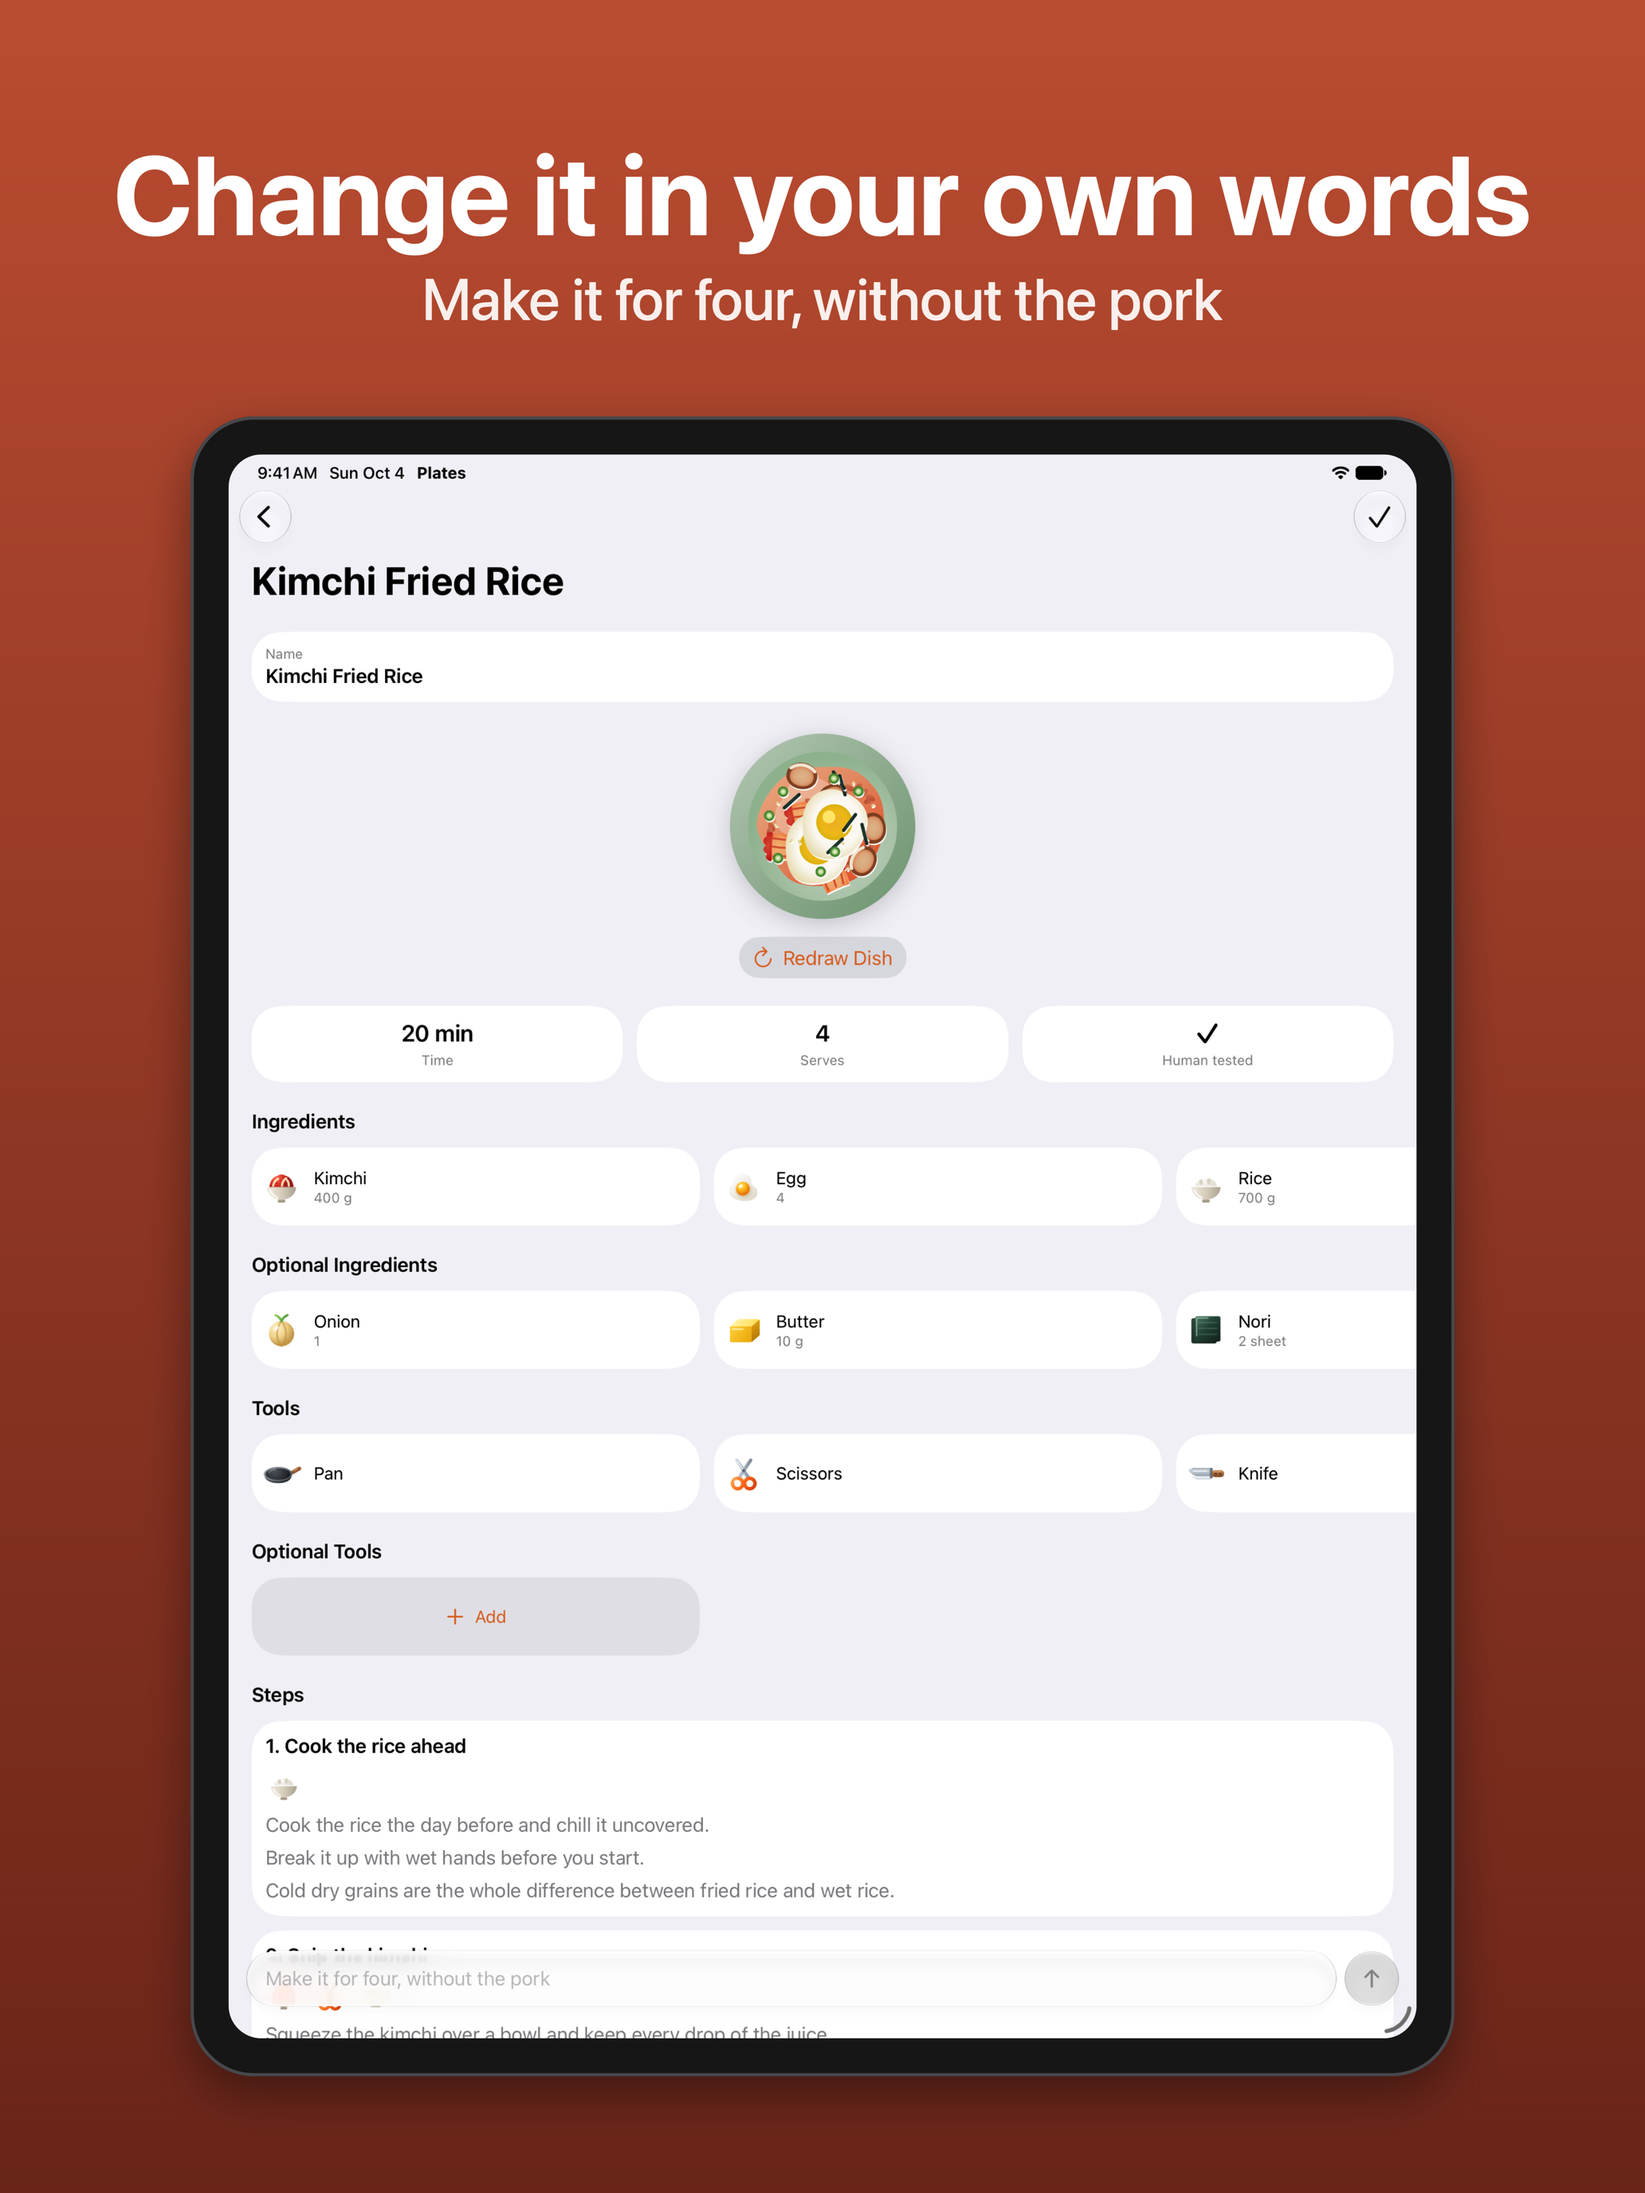
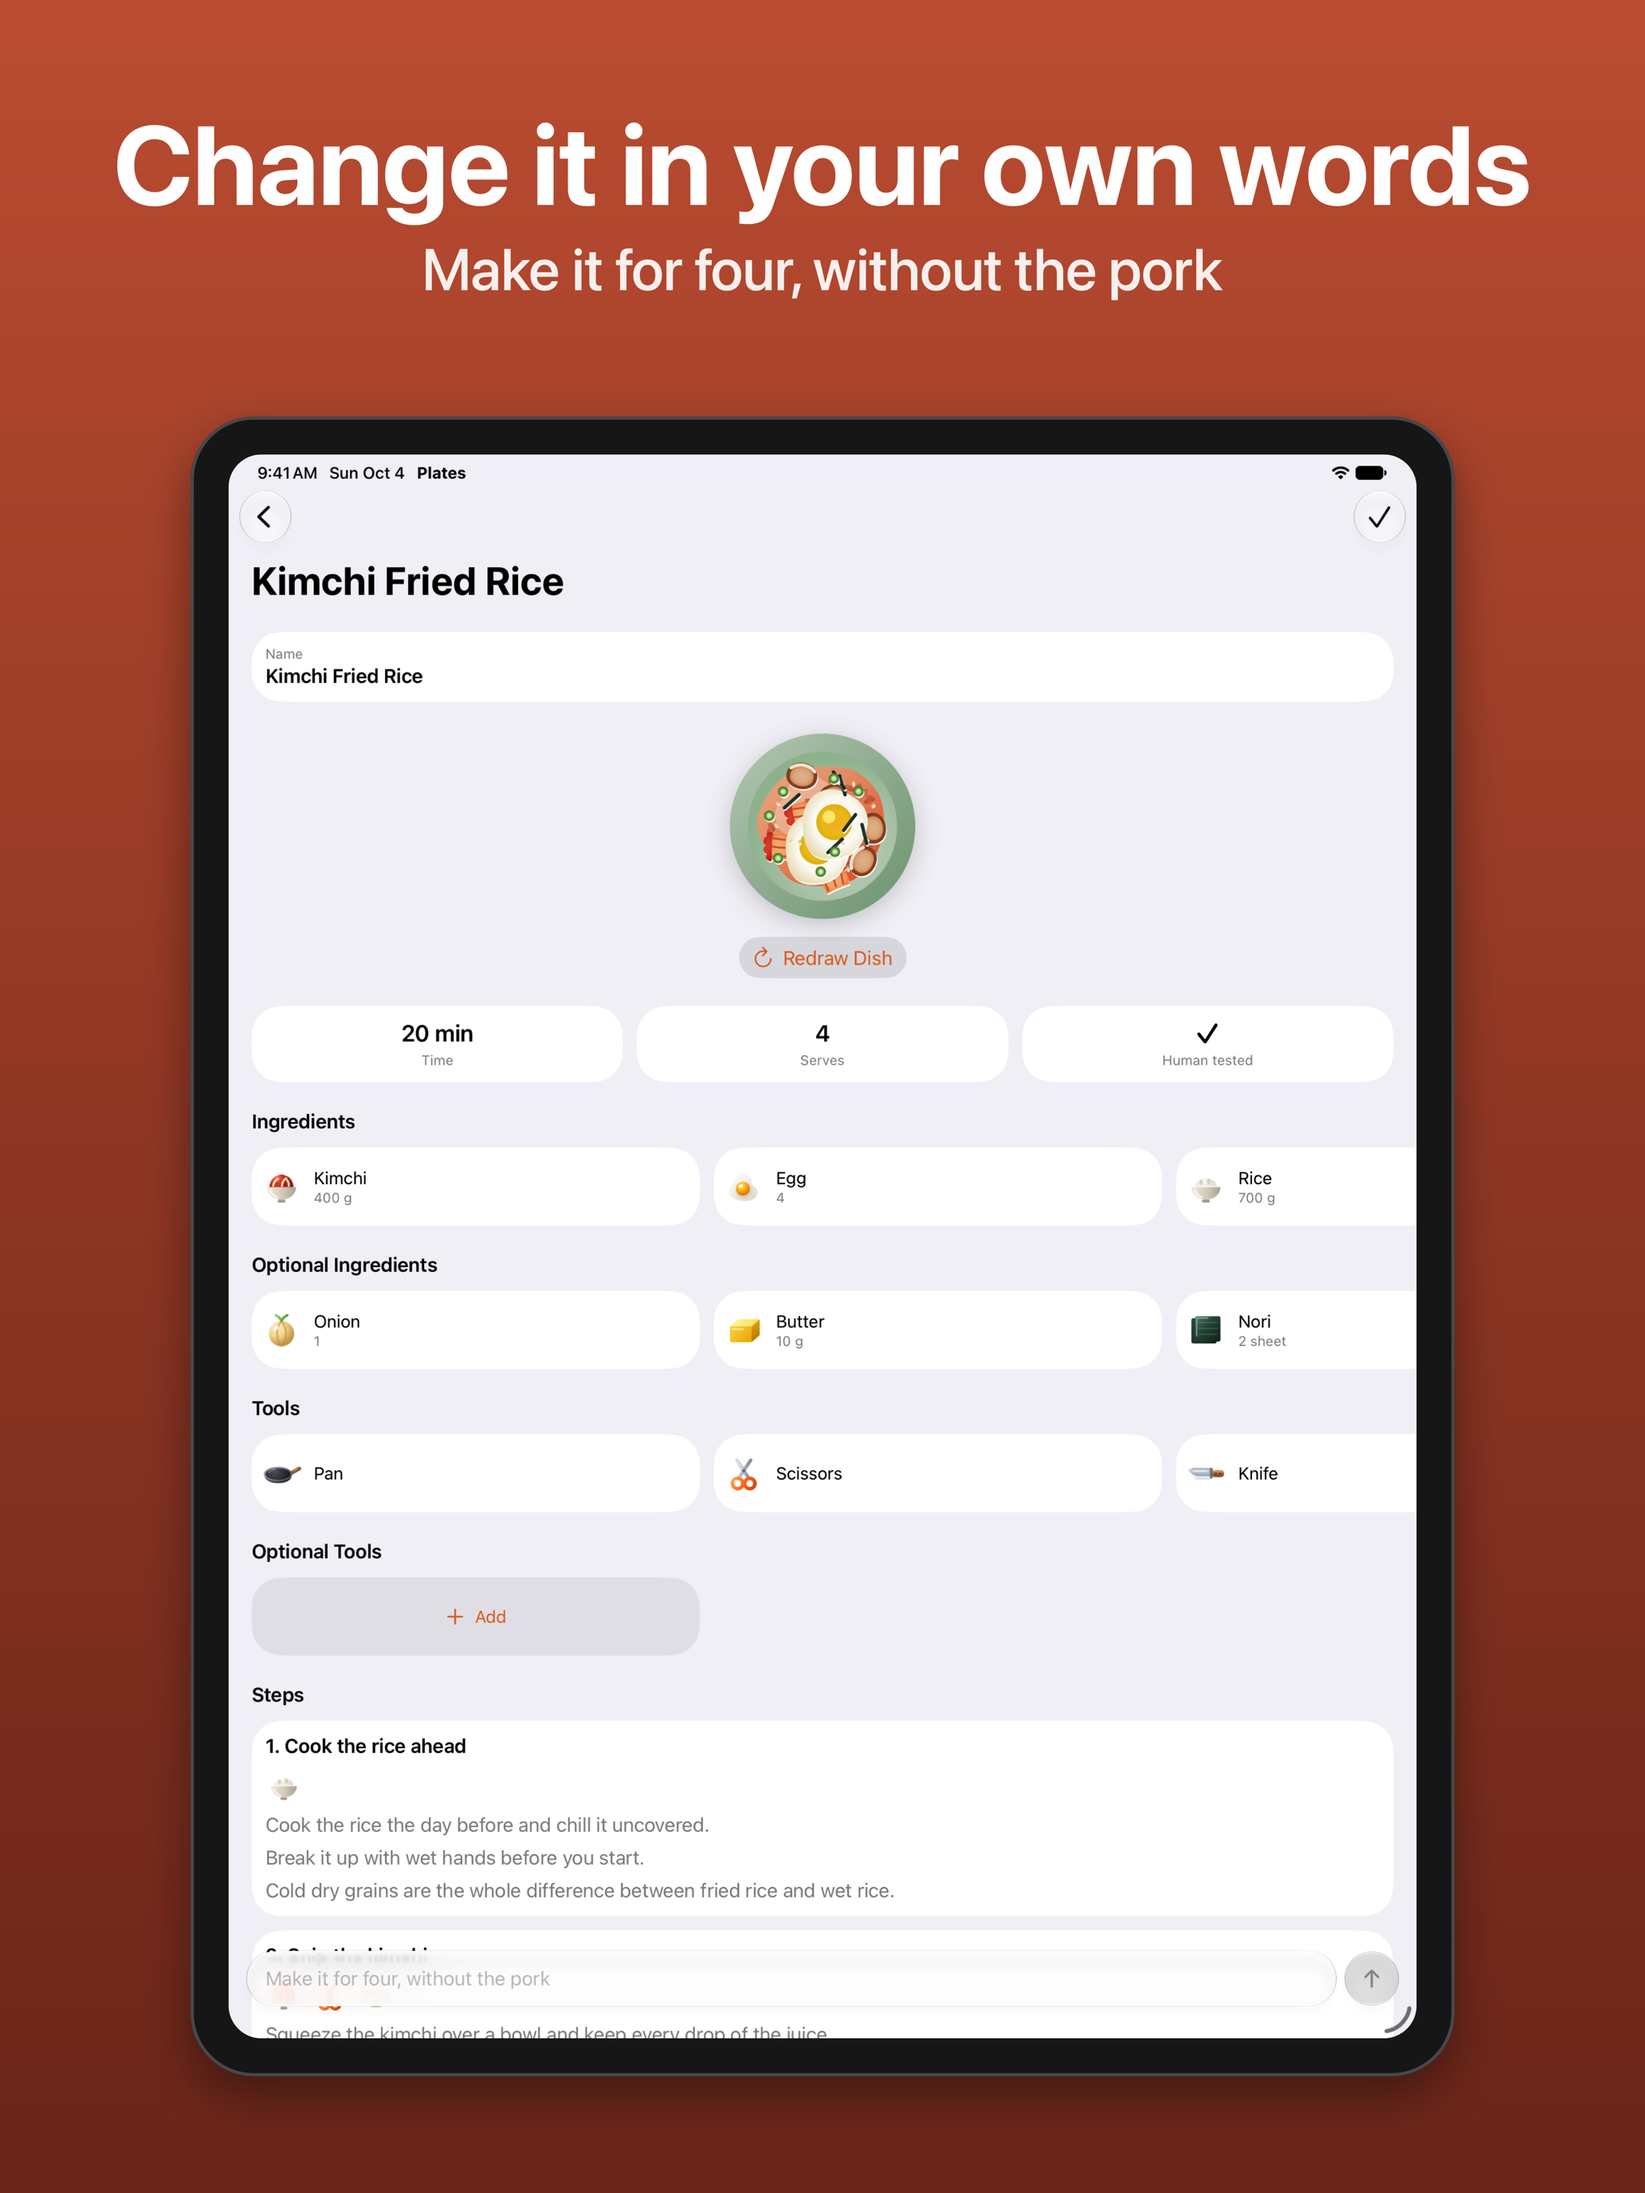
Center the iPad screenshot labels above the device

Changed region(s): [[0.062, 0.0625, 0.9302, 0.1562]]

diff --git a/Assets/App Store/compose.swift b/Assets/App Store/compose.swift
@@ -209,35 +209,38 @@ let iPadScreenshots: [Screenshot] = [
 
 // MARK: - Text
 
-/// Draws one line centered at `top`, shrinking until it fits `maxWidth`.
-/// Returns the drawn height.
-@discardableResult
-func drawLine(
-    _ text: String,
-    size: CGFloat,
-    weight: NSFont.Weight,
-    color: NSColor,
-    top: CGFloat,
-    canvasWidth: CGFloat,
-    maxWidth: CGFloat
-) -> CGFloat {
-    var fontSize = size
-    var attrs: [NSAttributedString.Key: Any] = [:]
-    var lineSize = NSSize.zero
-    while fontSize > 10 {
-        attrs = [
-            .font: NSFont.systemFont(ofSize: fontSize, weight: weight),
-            .foregroundColor: color,
-        ]
-        lineSize = (text as NSString).size(withAttributes: attrs)
-        if lineSize.width <= maxWidth { break }
-        fontSize -= 2
+/// One line of text at the largest size up to `size` that fits `maxWidth`.
+struct Line {
+    let text: String
+    let attributes: [NSAttributedString.Key: Any]
+    let font: NSFont
+    let size: NSSize
+
+    init(_ text: String, size: CGFloat, weight: NSFont.Weight, color: NSColor, maxWidth: CGFloat) {
+        var fontSize = size
+        var font = NSFont.systemFont(ofSize: fontSize, weight: weight)
+        var attributes: [NSAttributedString.Key: Any] = [:]
+        var lineSize = NSSize.zero
+        while fontSize > 10 {
+            font = NSFont.systemFont(ofSize: fontSize, weight: weight)
+            attributes = [.font: font, .foregroundColor: color]
+            lineSize = (text as NSString).size(withAttributes: attributes)
+            if lineSize.width <= maxWidth { break }
+            fontSize -= 2
+        }
+        self.text = text
+        self.attributes = attributes
+        self.font = font
+        self.size = lineSize
     }
-    (text as NSString).draw(
-        at: NSPoint(x: (canvasWidth - lineSize.width) / 2, y: top - lineSize.height),
-        withAttributes: attrs
-    )
-    return lineSize.height
+
+    /// Draws the line centered across `canvasWidth`, with the top of its line box at `top`.
+    func draw(top: CGFloat, canvasWidth: CGFloat) {
+        (text as NSString).draw(
+            at: NSPoint(x: (canvasWidth - size.width) / 2, y: top - size.height),
+            withAttributes: attributes
+        )
+    }
 }
 
 // MARK: - Device frames
@@ -351,20 +354,16 @@ func compose(_ shot: Screenshot, language: String, device: Device) -> Bool {
 
     // One-line header and caption. AppKit's origin is bottom-left.
     let textWidth = canvasSize.width - 96 * s
-    let headerTop = canvasSize.height - 96 * s
-    let headerHeight = drawLine(
-        copy.header, size: 84 * s, weight: .bold,
-        color: .white, top: headerTop, canvasWidth: canvasSize.width, maxWidth: textWidth
-    )
-    let captionTop = headerTop - headerHeight - 4 * s
-    let captionHeight = drawLine(
+    let header = Line(copy.header, size: 84 * s, weight: .bold, color: .white, maxWidth: textWidth)
+    let caption = Line(
         copy.caption, size: 44 * s, weight: .medium,
-        color: NSColor.white.withAlphaComponent(0.92), top: captionTop,
-        canvasWidth: canvasSize.width, maxWidth: textWidth
+        color: NSColor.white.withAlphaComponent(0.92), maxWidth: textWidth
     )
+    let captionGap = 4 * s
+    var headerTop = canvasSize.height - 96 * s
+    let textBottom = headerTop - header.size.height - captionGap - caption.size.height
 
     // The device fills what is left below the text.
-    let textBottom = captionTop - captionHeight
     let deviceTopMargin = 64 * s
     let deviceBottomMargin = 88 * s
     let availableHeight = textBottom - deviceTopMargin - deviceBottomMargin
@@ -374,6 +373,19 @@ func compose(_ shot: Screenshot, language: String, device: Device) -> Bool {
         deviceSize.width = canvasSize.width - 120 * s
         deviceSize.height = deviceSize.width / aspect
     }
+
+    // The iPad leaves more room above it, so its text is centered, by the header's cap height
+    // and the caption's baseline, between the top of the canvas and the top of the device.
+    if device == .iPad {
+        let deviceTop = deviceBottomMargin + deviceSize.height
+        let capInset = header.font.ascender - header.font.capHeight
+        let visualHeight = header.size.height + captionGap + caption.font.ascender - capInset
+        let visualTop = (canvasSize.height + deviceTop) / 2 + visualHeight / 2
+        headerTop = (visualTop + capInset).rounded()
+    }
+    header.draw(top: headerTop, canvasWidth: canvasSize.width)
+    caption.draw(top: headerTop - header.size.height - captionGap, canvasWidth: canvasSize.width)
+
     let deviceRect = NSRect(
         x: ((canvasSize.width - deviceSize.width) / 2).rounded(),
         y: deviceBottomMargin,
